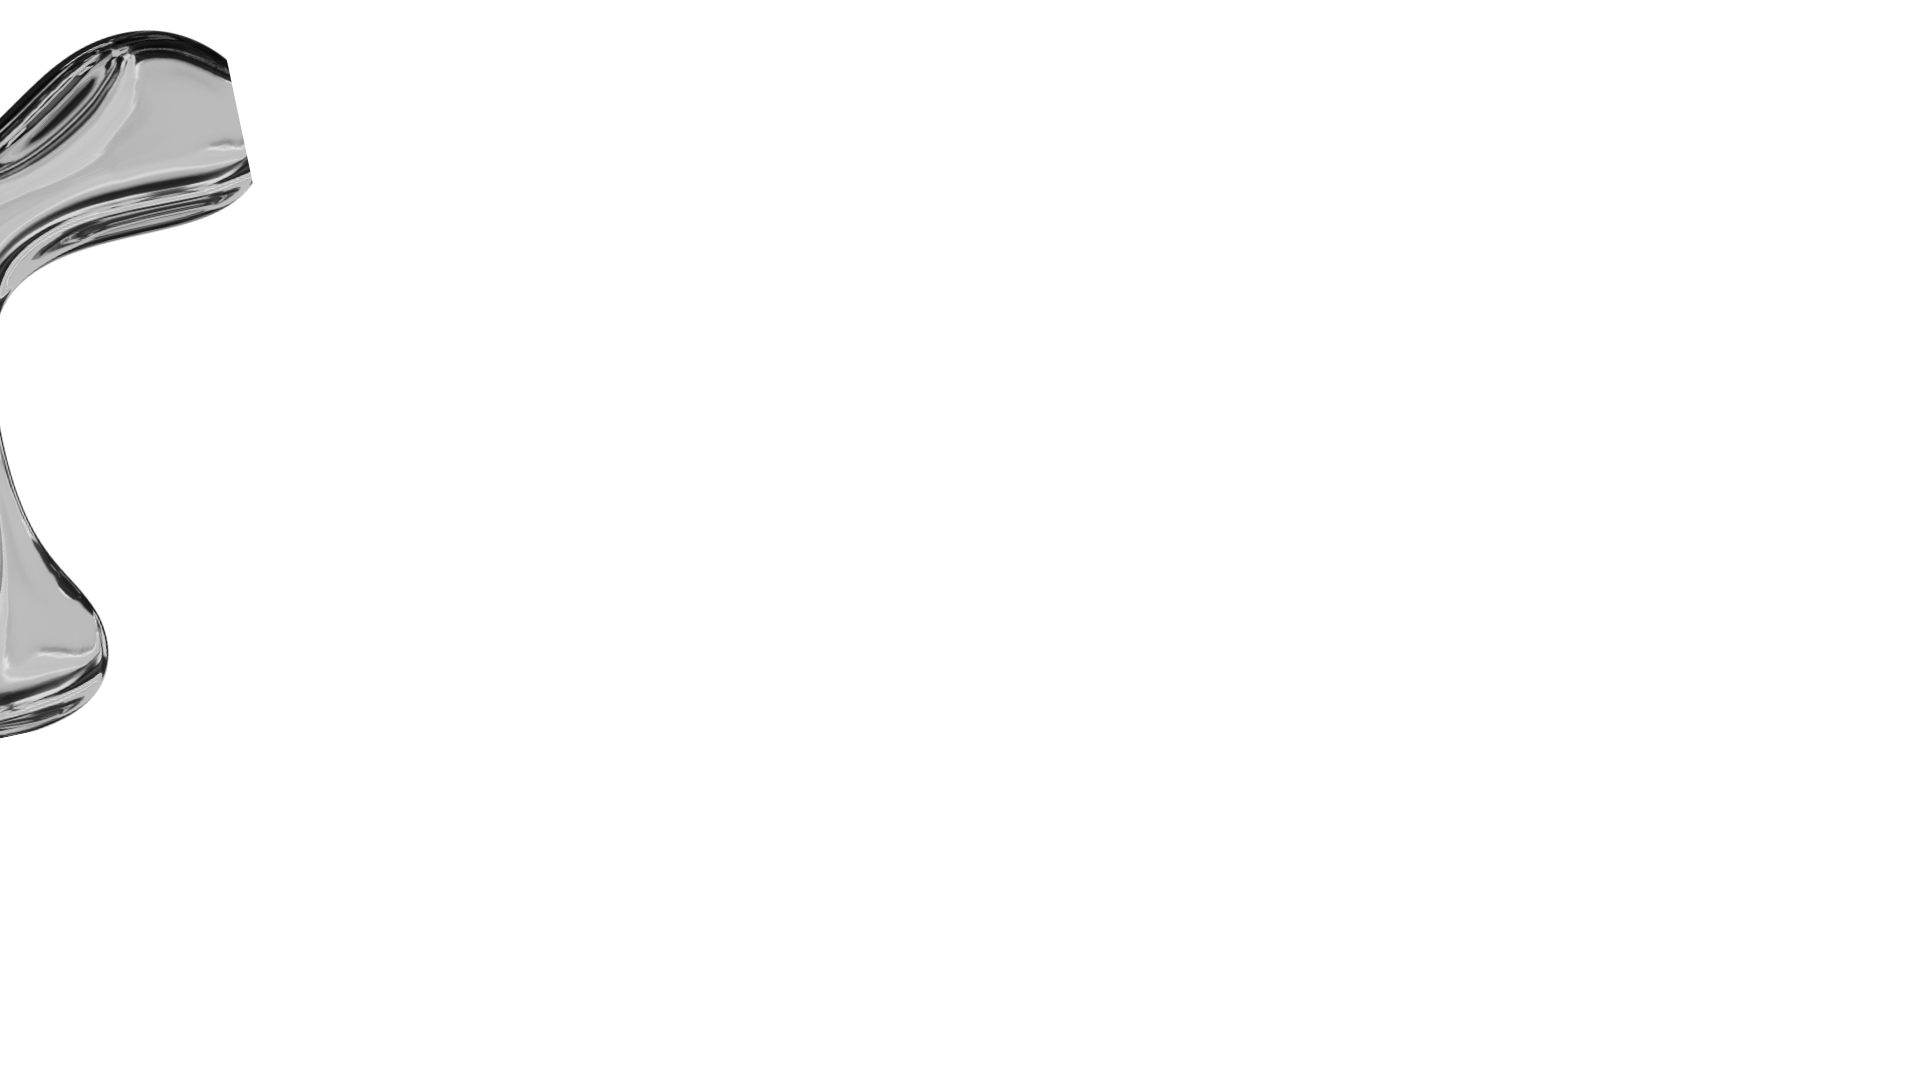
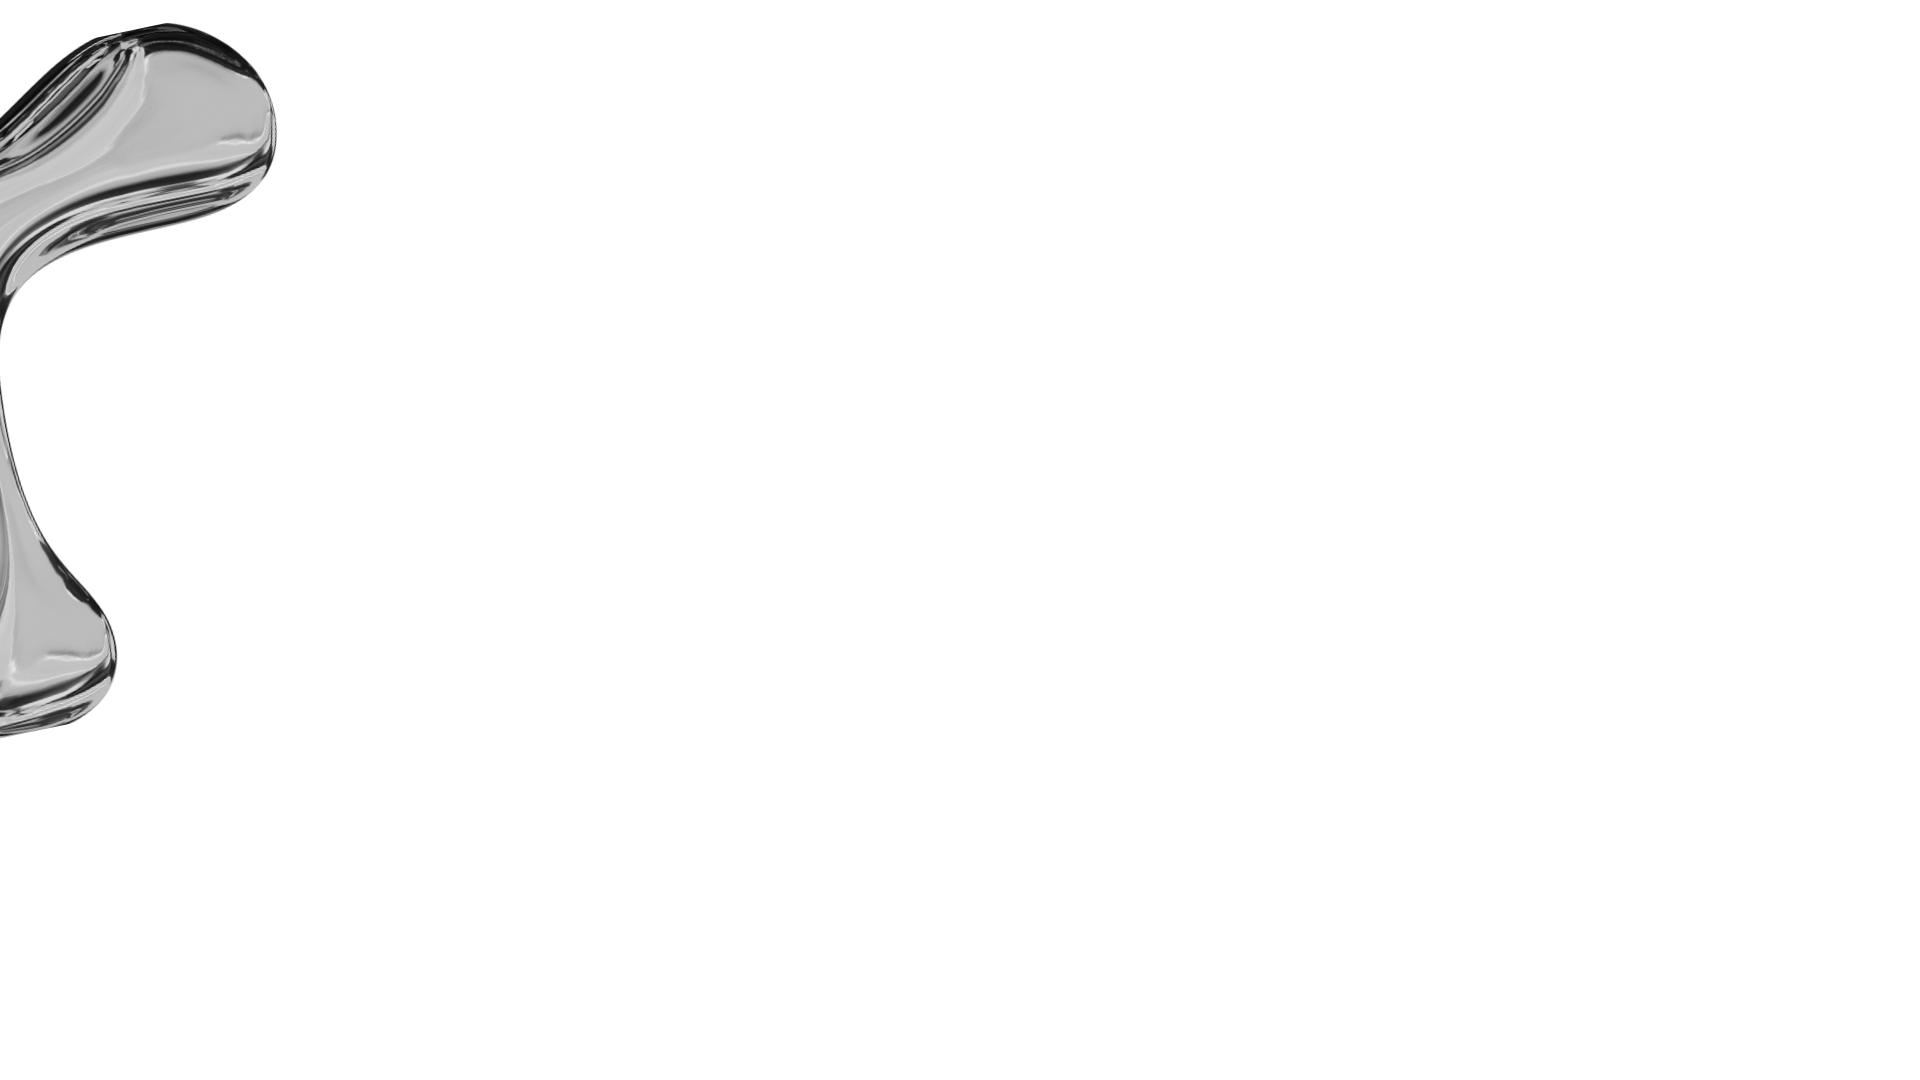
Projets: titre décalé gauche / photo droite, formes chromées maj (gauche=nouvelle, droite=complète) + object-position pour ne pas couper, espace bas retiré (forme droite touche l'image). Confiance: cases plus larges, moins hautes, 3 couleurs (bleu/encre/chrome)

Changed region(s): [[0.0, 0.0, 0.1562, 0.275], [0.0, 0.3972, 0.0625, 0.7028]]

diff --git a/assets/styles.css b/assets/styles.css
@@ -813,9 +813,13 @@ a.pillar { color: inherit; text-decoration: none; display: block; cursor: pointe
 .dk-intro p{max-width:58ch;font-size:clamp(.95rem,1.15vw,1.2rem);color:rgba(255,255,255,.88);line-height:1.52}
 .dk-intro p+p{margin-top:.82em}
 .dk-intro .dk-end{margin-top:24px;font-family:var(--font-display);font-weight:700;font-size:clamp(1.15rem,2vw,1.8rem)}
-.dk-teaser{padding:clamp(70px,10vh,150px) 0;border-bottom:1px solid var(--line);position:relative;overflow:hidden}
-.dk-teaser>.wrap{position:relative;z-index:1}
+.dk-teaser{padding:clamp(70px,10vh,150px) 0 0;position:relative;overflow:hidden}
+.dk-teaser>.wrap{position:relative;z-index:1;max-width:none;padding-left:clamp(20px,3vw,58px);padding-right:clamp(20px,3vw,58px)}
 .dk-chrome{position:absolute;inset:0;width:100%;height:100%;object-fit:cover;pointer-events:none;z-index:0}
+.dk-chrome-l{object-position:left center}
+.dk-chrome-t{object-position:center top}
+.dk-chrome-b{object-position:center bottom}
+.dk-chrome-r{object-position:right bottom}
 .dk-blue{color:var(--c-primary)}
 .dk-sub{color:var(--fg-dim);max-width:34ch;margin-top:18px}
 .dk-mlist{list-style:none}
@@ -823,16 +827,16 @@ a.pillar { color: inherit; text-decoration: none; display: block; cursor: pointe
 .dk-mlist li span{font-family:"Space Mono",monospace;font-size:.8rem;color:var(--c-primary)}
 .dk-refs{padding:clamp(70px,10vh,150px) 0 0}
 .dk-refs h2{margin:22px 0 60px}
-.dk-refs-grid{display:flex;align-items:center;justify-content:space-between;gap:clamp(30px,5vw,90px)}
-.dk-refs-grid h2{flex:1;margin:0;font-size:clamp(2rem,4vw,3.7rem);line-height:.96;letter-spacing:-.02em}
-.dk-refs .dk-cards{flex:0 0 auto;display:flex;gap:clamp(12px,1.2vw,22px)}
-.dk-refs .dk-card{width:clamp(150px,13.5vw,210px);min-height:clamp(340px,42vh,430px)}
-@media(max-width:900px){.dk-refs-grid{flex-direction:column;align-items:flex-start}.dk-refs-grid h2{margin-bottom:30px}.dk-refs .dk-cards{flex-wrap:wrap}}
+.dk-refs-grid{display:grid;grid-template-columns:minmax(180px,.72fr) 2.5fr;gap:clamp(30px,4vw,70px);align-items:center}
+.dk-refs-grid h2{margin:0;font-size:clamp(1.9rem,3.6vw,3.4rem);line-height:.98}
+.dk-refs .dk-cards{display:grid;grid-template-columns:repeat(3,1fr);gap:clamp(14px,1.5vw,24px)}
+.dk-refs .dk-card{min-height:clamp(270px,32vh,340px)}
+@media(max-width:900px){.dk-refs-grid{grid-template-columns:1fr}.dk-refs-grid h2{margin-bottom:30px}.dk-refs .dk-cards{grid-template-columns:1fr}}
 .dk-cards{display:grid;grid-template-columns:repeat(3,1fr);gap:clamp(14px,2vw,28px)}
 .dk-card{padding:clamp(26px,2.4vw,40px);min-height:440px;display:flex;flex-direction:column;justify-content:space-between}
 .dk-card.b1{background:var(--c-primary);color:#fff}
-.dk-card.b2{background:var(--c-primary);color:#fff}
-.dk-card.b3{background:var(--c-primary);color:#fff}
+.dk-card.b2{background:var(--c-ink);color:#fff}
+.dk-card.b3{background:linear-gradient(177deg,#c2c7cf 0%,#eef0f3 9%,#aab0ba 22%,#f4f6f8 34%,#9aa1ac 47%,#fbfcfd 52%,#a6adb7 60%,#e9ebef 74%,#b4bac4 88%,#d8dce1 100%);color:var(--c-ink)}
 .dk-card .q{font-family:var(--font-display);font-weight:500;font-size:clamp(1.05rem,1.4vw,1.45rem);line-height:1.3}
 .dk-card .who{margin-top:24px}
 .dk-card .who b{font-family:var(--font-display);font-weight:700;display:block}

diff --git a/index.html b/index.html
@@ -75,10 +75,10 @@
 </div></section>
 
 <section class="dk-teaser">
-  <img class="dk-chrome" src="assets/chrome-19.png" alt="" aria-hidden="true">
-  <img class="dk-chrome" src="assets/chrome-20.png" alt="" aria-hidden="true">
-  <img class="dk-chrome" src="assets/chrome-21.png" alt="" aria-hidden="true">
-  <img class="dk-chrome" src="assets/chrome-22.png" alt="" aria-hidden="true">
+  <img class="dk-chrome dk-chrome-l" src="assets/chrome-19.png" alt="" aria-hidden="true">
+  <img class="dk-chrome dk-chrome-t" src="assets/chrome-20.png" alt="" aria-hidden="true">
+  <img class="dk-chrome dk-chrome-b" src="assets/chrome-21.png" alt="" aria-hidden="true">
+  <img class="dk-chrome dk-chrome-r" src="assets/chrome-22.png" alt="" aria-hidden="true">
   <div class="wrap"><div class="dk-trow">
   <div class="dk-tleft">
     <span class="dk-eyebrow">01 — Réalisations</span>